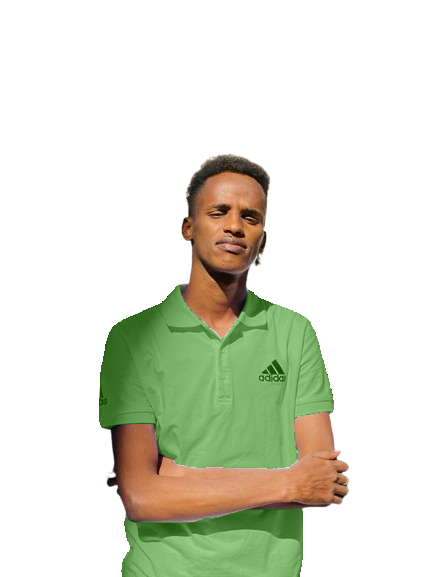
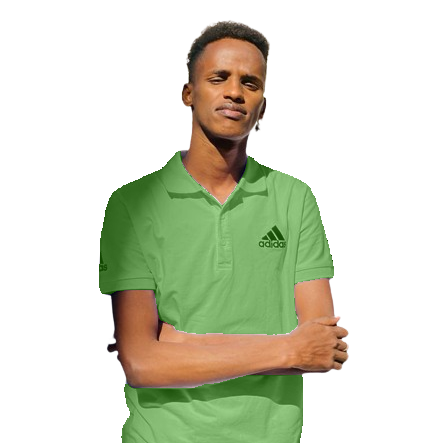
More styles added

Changed region(s): [[0.2102, 0.0293, 0.8106, 0.9684]]

diff --git a/src/ui/Hero.jsx b/src/ui/Hero.jsx
@@ -1,22 +1,29 @@
 function Hero() {
   return (
-    <div className='mx-auto mt-4'>
-      <div className='flex flex-col px-8 py-2'>
-        <h1 className='text-4xl font-beVietnamPro'>
-          Hi, I am a <br />
-          <span className='font-plairFairDisplay'>
-            Visual designer <br />
-          </span>
-          <span className='font-poppins'>Based in Nairobi</span>
-        </h1>
+    <>
+      <div className="mx-auto mt-4 space-y-4 sm:flex sm:items-center">
+        <div className="mb-4 flex flex-col px-8 py-2">
+          <h1 className="text-4xl sm:text-8xl">
+            <span className="font-beVietnamPro font-semibold">
+              Hi. I am a <br />
+            </span>
+            <span className="font-plairFairDisplay sm:text-7xl">
+              full-stack developer <br />
+            </span>
+            <span className="font-poppins font-semibold">based in Nairobi</span>
+          </h1>
+        </div>
+        <img
+          src="./hussein2.png"
+          className="mx-auto mt-4 w-10/12 rounded-[30%] sm:h-4/5 sm:w-4/12"
+        />
       </div>
-      <img src='./hussein.png' />
-      <div className='social'>
+      <div className="social">
         <a>LinkedIn</a>
         <a>Facebook</a>
         <a>Behance</a>
       </div>
-    </div>
+    </>
   );
 }
 
